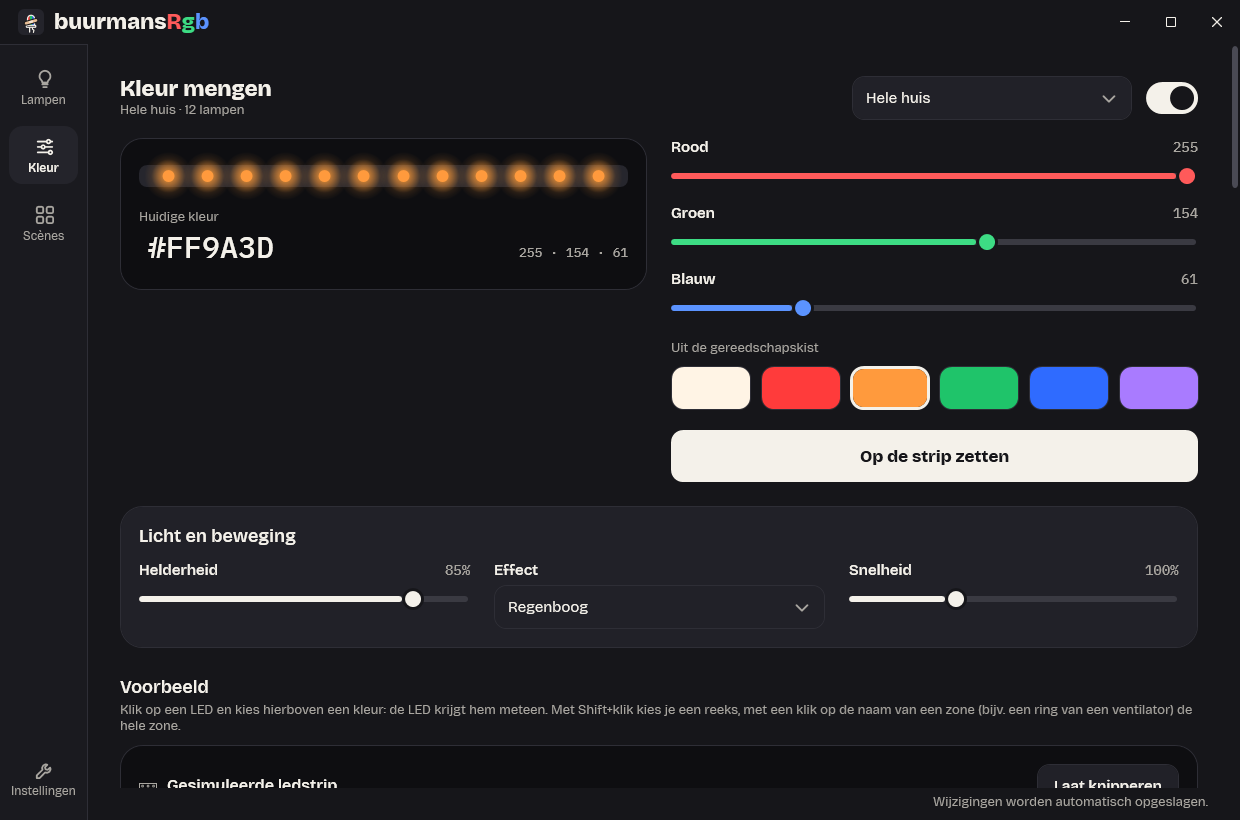
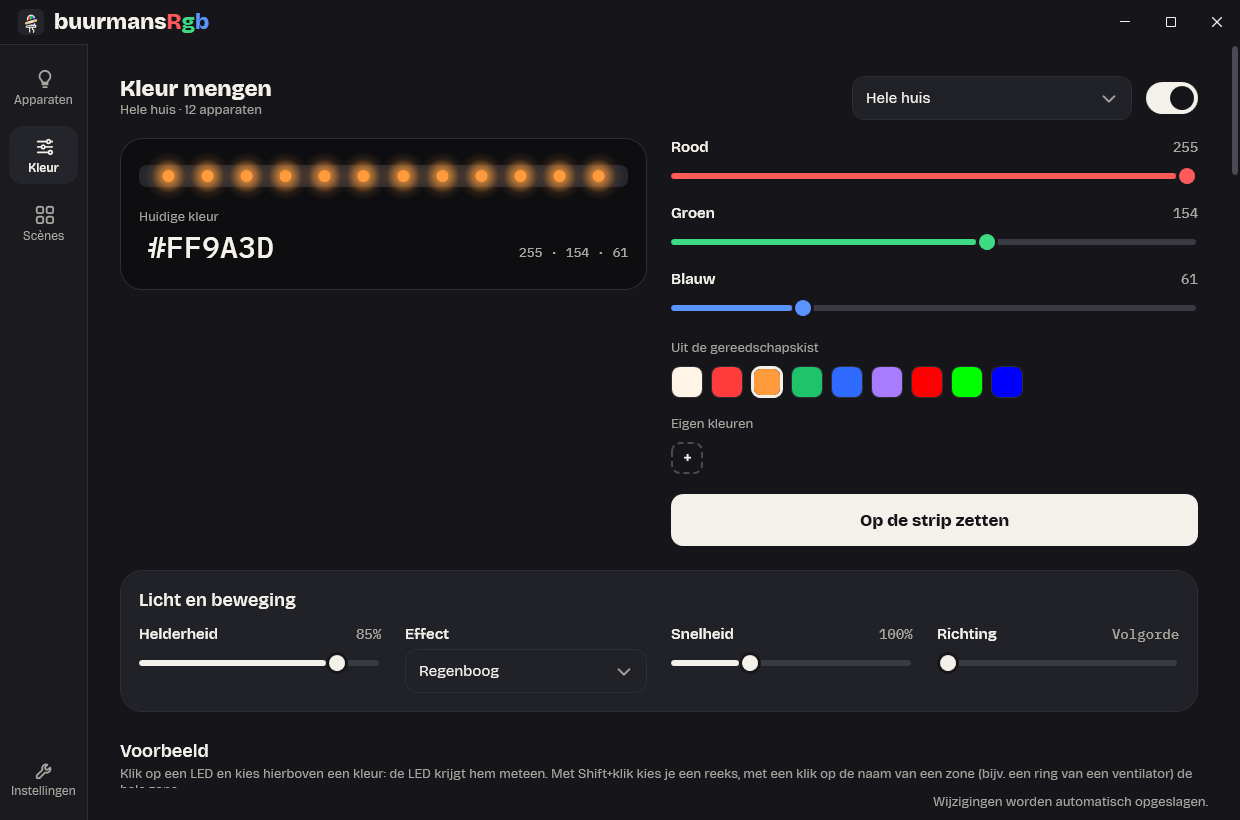
docs: renew Kleur screenshots with the direction

diff --git a/docs/handleiding.md b/docs/handleiding.md
@@ -189,7 +189,7 @@ schakelaar ernaast.
 
 #### Voorbeeld
 
-![Het voorbeeld van een toetsenbord met de regenboog](images/voorbeeld.png)
+![Het voorbeeld van een toetsenbord met de regenboog op 45°, schuin over de toetsen](images/voorbeeld.png)
 
 Onder "Licht en beweging" staat per apparaat een kaart met het icoon van zijn type, de naam en
 **Laat knipperen**, en per zone een bolletje per LED. Het toont wat de engine echt rendert,

diff --git a/README.md b/README.md
@@ -29,7 +29,7 @@
 
 | Kleur mengen | Voorbeeld per LED | Scènes |
 | --- | --- | --- |
-| ![Kleur mengen](docs/images/kleur.png) | ![Een toetsenbord met de regenboog](docs/images/voorbeeld.png) | ![Scènes](docs/images/scenes.png) |
+| ![Kleur mengen](docs/images/kleur.png) | ![Een toetsenbord met de regenboog schuin over de toetsen](docs/images/voorbeeld.png) | ![Scènes](docs/images/scenes.png) |
 
 ## Installeren
 
